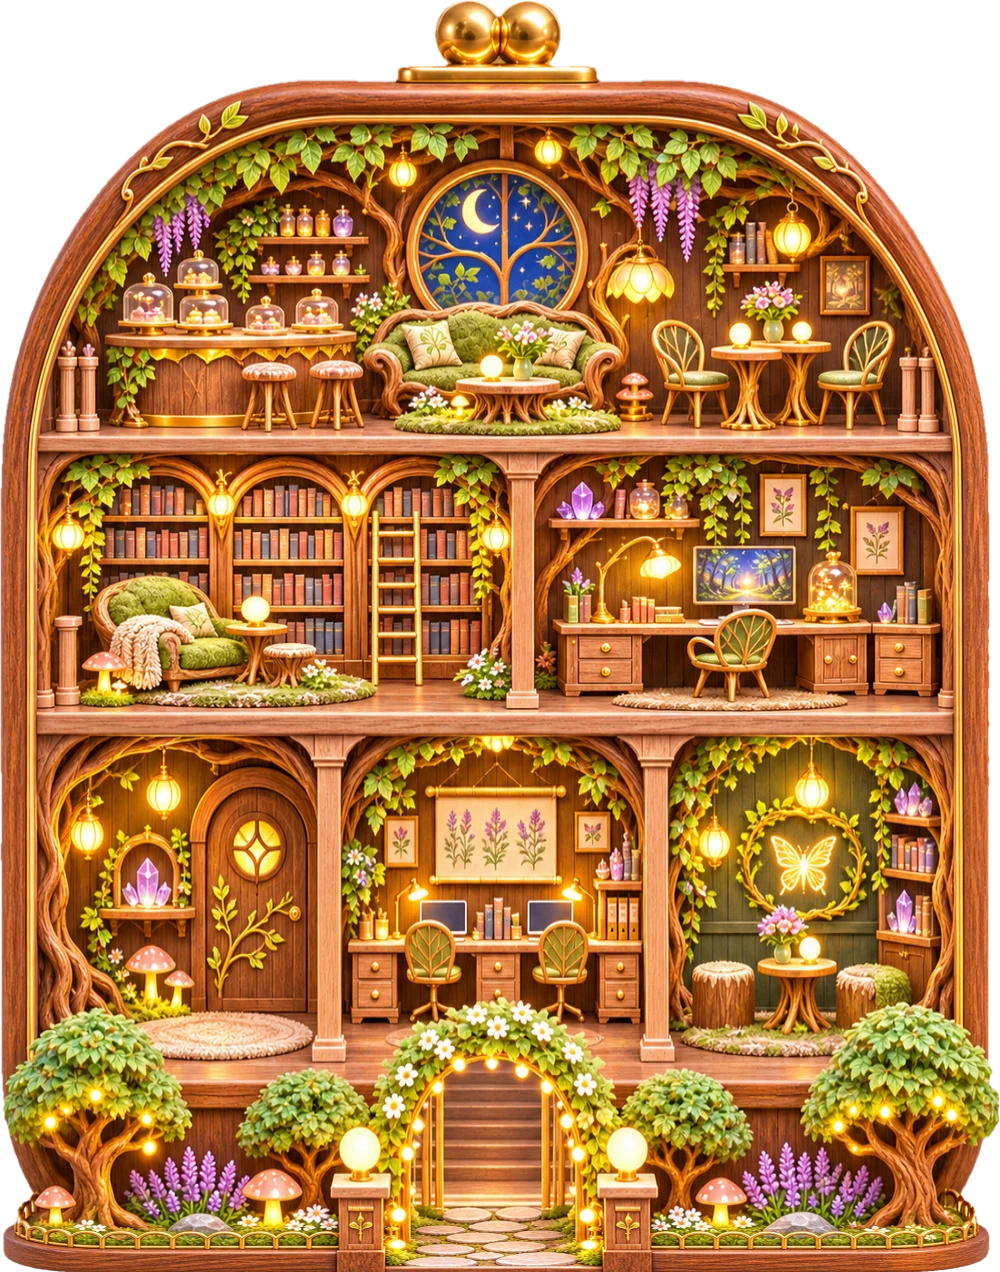
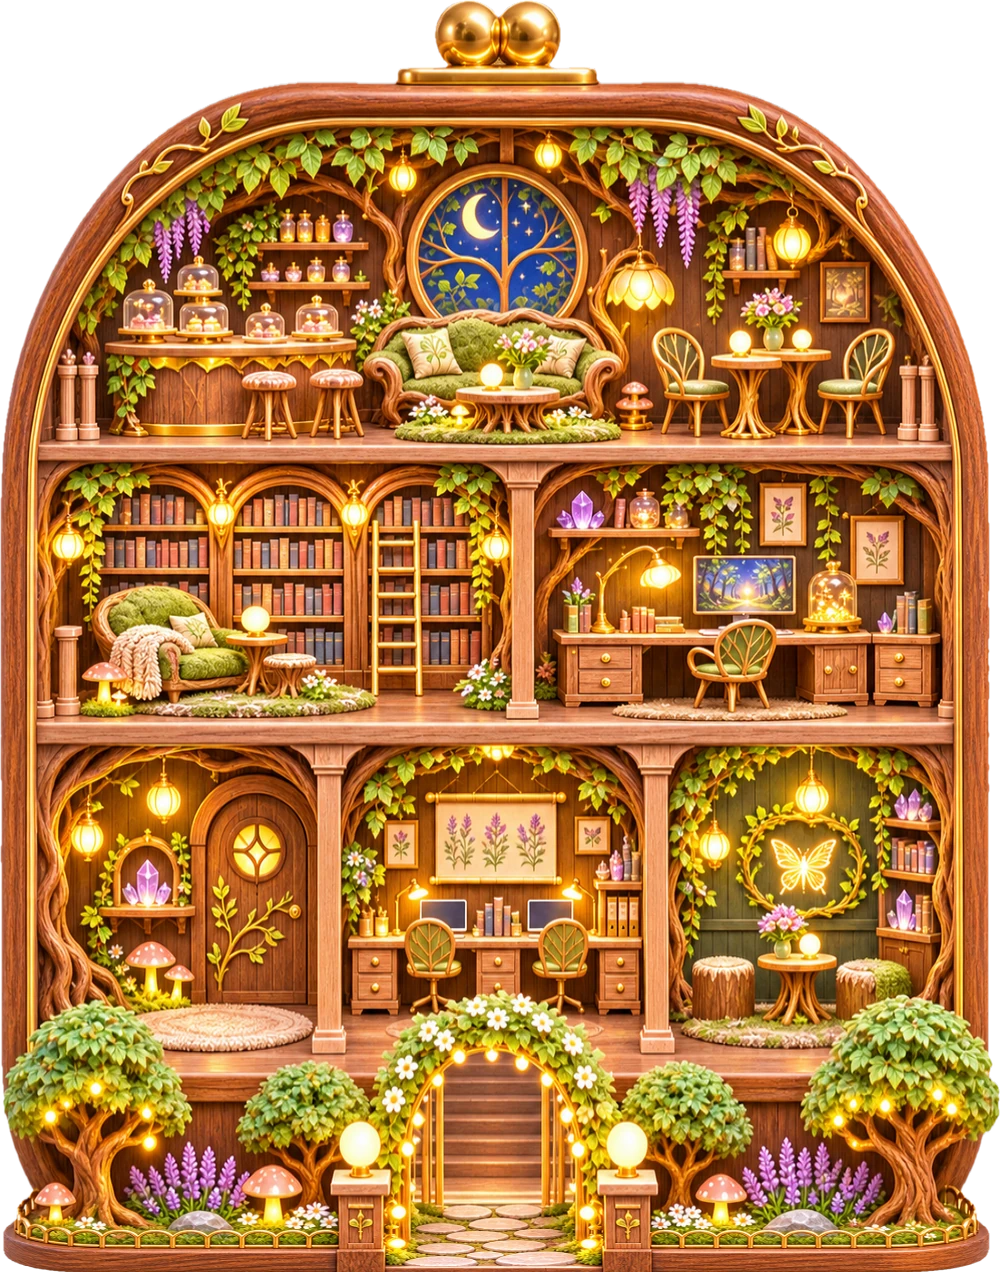
나무·웨딩 하우스: 카펫 중앙을 아바타 발 아래 20에 맞춤
Claude-Session: https://claude.ai/code/session_011wWXPaiuu8PZPFdYFKdKKY

diff --git a/tools/process_assets.py b/tools/process_assets.py
@@ -162,7 +162,7 @@ _OLD_SHIFT = {
     'wood': [(0, 0), (408, 9), (690, 14), (1002, -17), (1212, -62), (1272, -22)],
     'sea': [(0, 0), (408, -11), (690, -8), (1002, -17), (1212, -62), (1272, -22)],
 }
-_RUG_MOVE = {'wood': (-33, -22, -34), 'sea': (-16, -21, -27)}
+_RUG_MOVE = {'wood': (-42, -33, -24), 'sea': (-16, -21, -27)}
 
 
 def _skin_shift(key):
@@ -196,10 +196,10 @@ def skin_house(src, key):
     rgba = trim(rgba)
     rgba = rgba.resize((1000, round(rgba.height * 1000 / rgba.width)), Image.LANCZOS)
     if key == 'wedding':
-        # 그림이 더 길어서 위에서 아래로 전체를 1272에 맞춰 넣어요. 카펫 중앙이 아바타 발 아래 10쯤 (419·699·1032)에 오게
+        # 그림이 더 길어서 위에서 아래로 전체를 1272에 맞춰 넣어요. 카펫 중앙이 아바타 발 아래 20쯤 (428·710·1022)에 오게
         # (원본 1000폭 기준 카펫 중앙: 다락 453 · 2층 765 · 1층 1090)
         H = rgba.height
-        pts = [(0, 0), (419, 453 - 419), (699, 765 - 699), (1032, 1090 - 1032), (1272, H - 1272)]
+        pts = [(0, 0), (428, 453 - 428), (710, 765 - 710), (1022, 1090 - 1022), (1272, H - 1272)]
         return align_floors(rgba.crop((0, 0, 1000, H)).resize((1000, H)), pts, 1272)
     return align_floors(rgba, SKIN_FLOOR_SHIFT[key], 1272)
 
